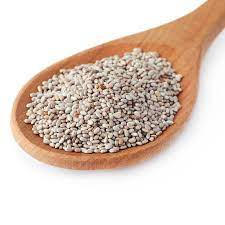
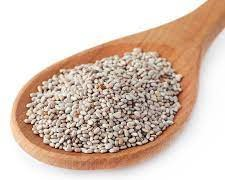
modified images, js files
image sizes modified, to be more uniform
some js file changes

diff --git a/scripts/main.js b/scripts/main.js
@@ -35,7 +35,7 @@ function populateListProductChoices(slct1, slct2) {
     s2.innerHTML = "";
 		
 	// obtain a reduced list of products based on restrictions, is a dictionary so it contains all the fields
-    var optionArray = restrictListProducts(products, s1.value, );
+    var optionArray = restrictListProducts(products, s1.value);
 
 	// sort the list by lowest to highest price
 	optionArray.sort(function(a, b) {
@@ -61,20 +61,24 @@ function populateListProductChoices(slct1, slct2) {
 		var image = document.createElement("img");
         image.src = productImage;
         image.alt = productName;
-		image.classList.add("product-image");
+		image.className = "product-image"; // Assign a class to your image
         s2.appendChild(image);
-
+		
+		let numSpaces = 10;
+		let spaces = " ".repeat(numSpaces);
 		// create a label for the checkbox, and also add in HTML DOM
 		var label = document.createElement('label')
 		label.htmlFor = productName ;
-		label.appendChild(document.createTextNode(productName+" ... $"+productPrice));
+		label.className = "product"; // Assign a class to your label
+		label.innerHTML = productName + " ... $" + productPrice;
 		s2.appendChild(label);
 		
 		// create a breakline node and add in HTML DOM
 		s2.appendChild(document.createElement("br"));    
 	}
-
 }
+
+
 	
 // This function is called when the "Add selected items to cart" button in clicked
 // The purpose is to build the HTML to be displayed (a Paragraph) 
@@ -92,24 +96,33 @@ function selectedItems(){
 	var para = document.createElement("P");
 	para.innerHTML = "You selected : ";
 	para.appendChild(document.createElement("br"));
+	para.appendChild(document.createElement("br"));
 	for (i = 0; i < ele.length; i++) { 
 		if (ele[i].checked) {
 			var element = ele[i].value.split(",")
 			var productName = element[0]
 			var productPrice = element[1]
 			var productImage = element[2];
-			
+		
 			// create an image element for the selected item
-            var selectedImage = document.createElement("img");
-            selectedImage.src = productImage;
-            selectedImage.alt = productName;
-            para.appendChild(selectedImage);
+			var selectedImage = document.createElement("img");
+			//selectedImage.src = productImage;
+			//selectedImage.alt = productName;
 
-			para.appendChild(document.createTextNode(productName+" ... $"+productPrice));
-			para.appendChild(document.createElement("br"));
+			// create a wrapper div for the product name, price, and image
+			var productWrapper = document.createElement("div");
+			productWrapper.style.position = "relative";
+
+			// append the product name and price to the wrapper
+			productWrapper.appendChild(document.createTextNode(productName+" ... $"+productPrice));
+
+			// append the wrapper to the para
+			para.appendChild(productWrapper);
+
 			chosenProducts.push(productName);
 		}
 	}
+
 		
 	// add paragraph and total price
 	c.appendChild(para);

diff --git a/scripts/groceries.js b/scripts/groceries.js
@@ -28,12 +28,12 @@ var products = [
 		image: "scripts/Quinoa.jpg",
 	},
 	{
-		name: "Lentille",
+		name: "Lentil",
 		vegetarian: true,
 		glutenFree: true,
 		organic: true,
 		price: 3.35,
-		image: "scripts/Lentille.jpg",
+		image: "scripts/Lentil.jpg",
 
 	},
 	{
